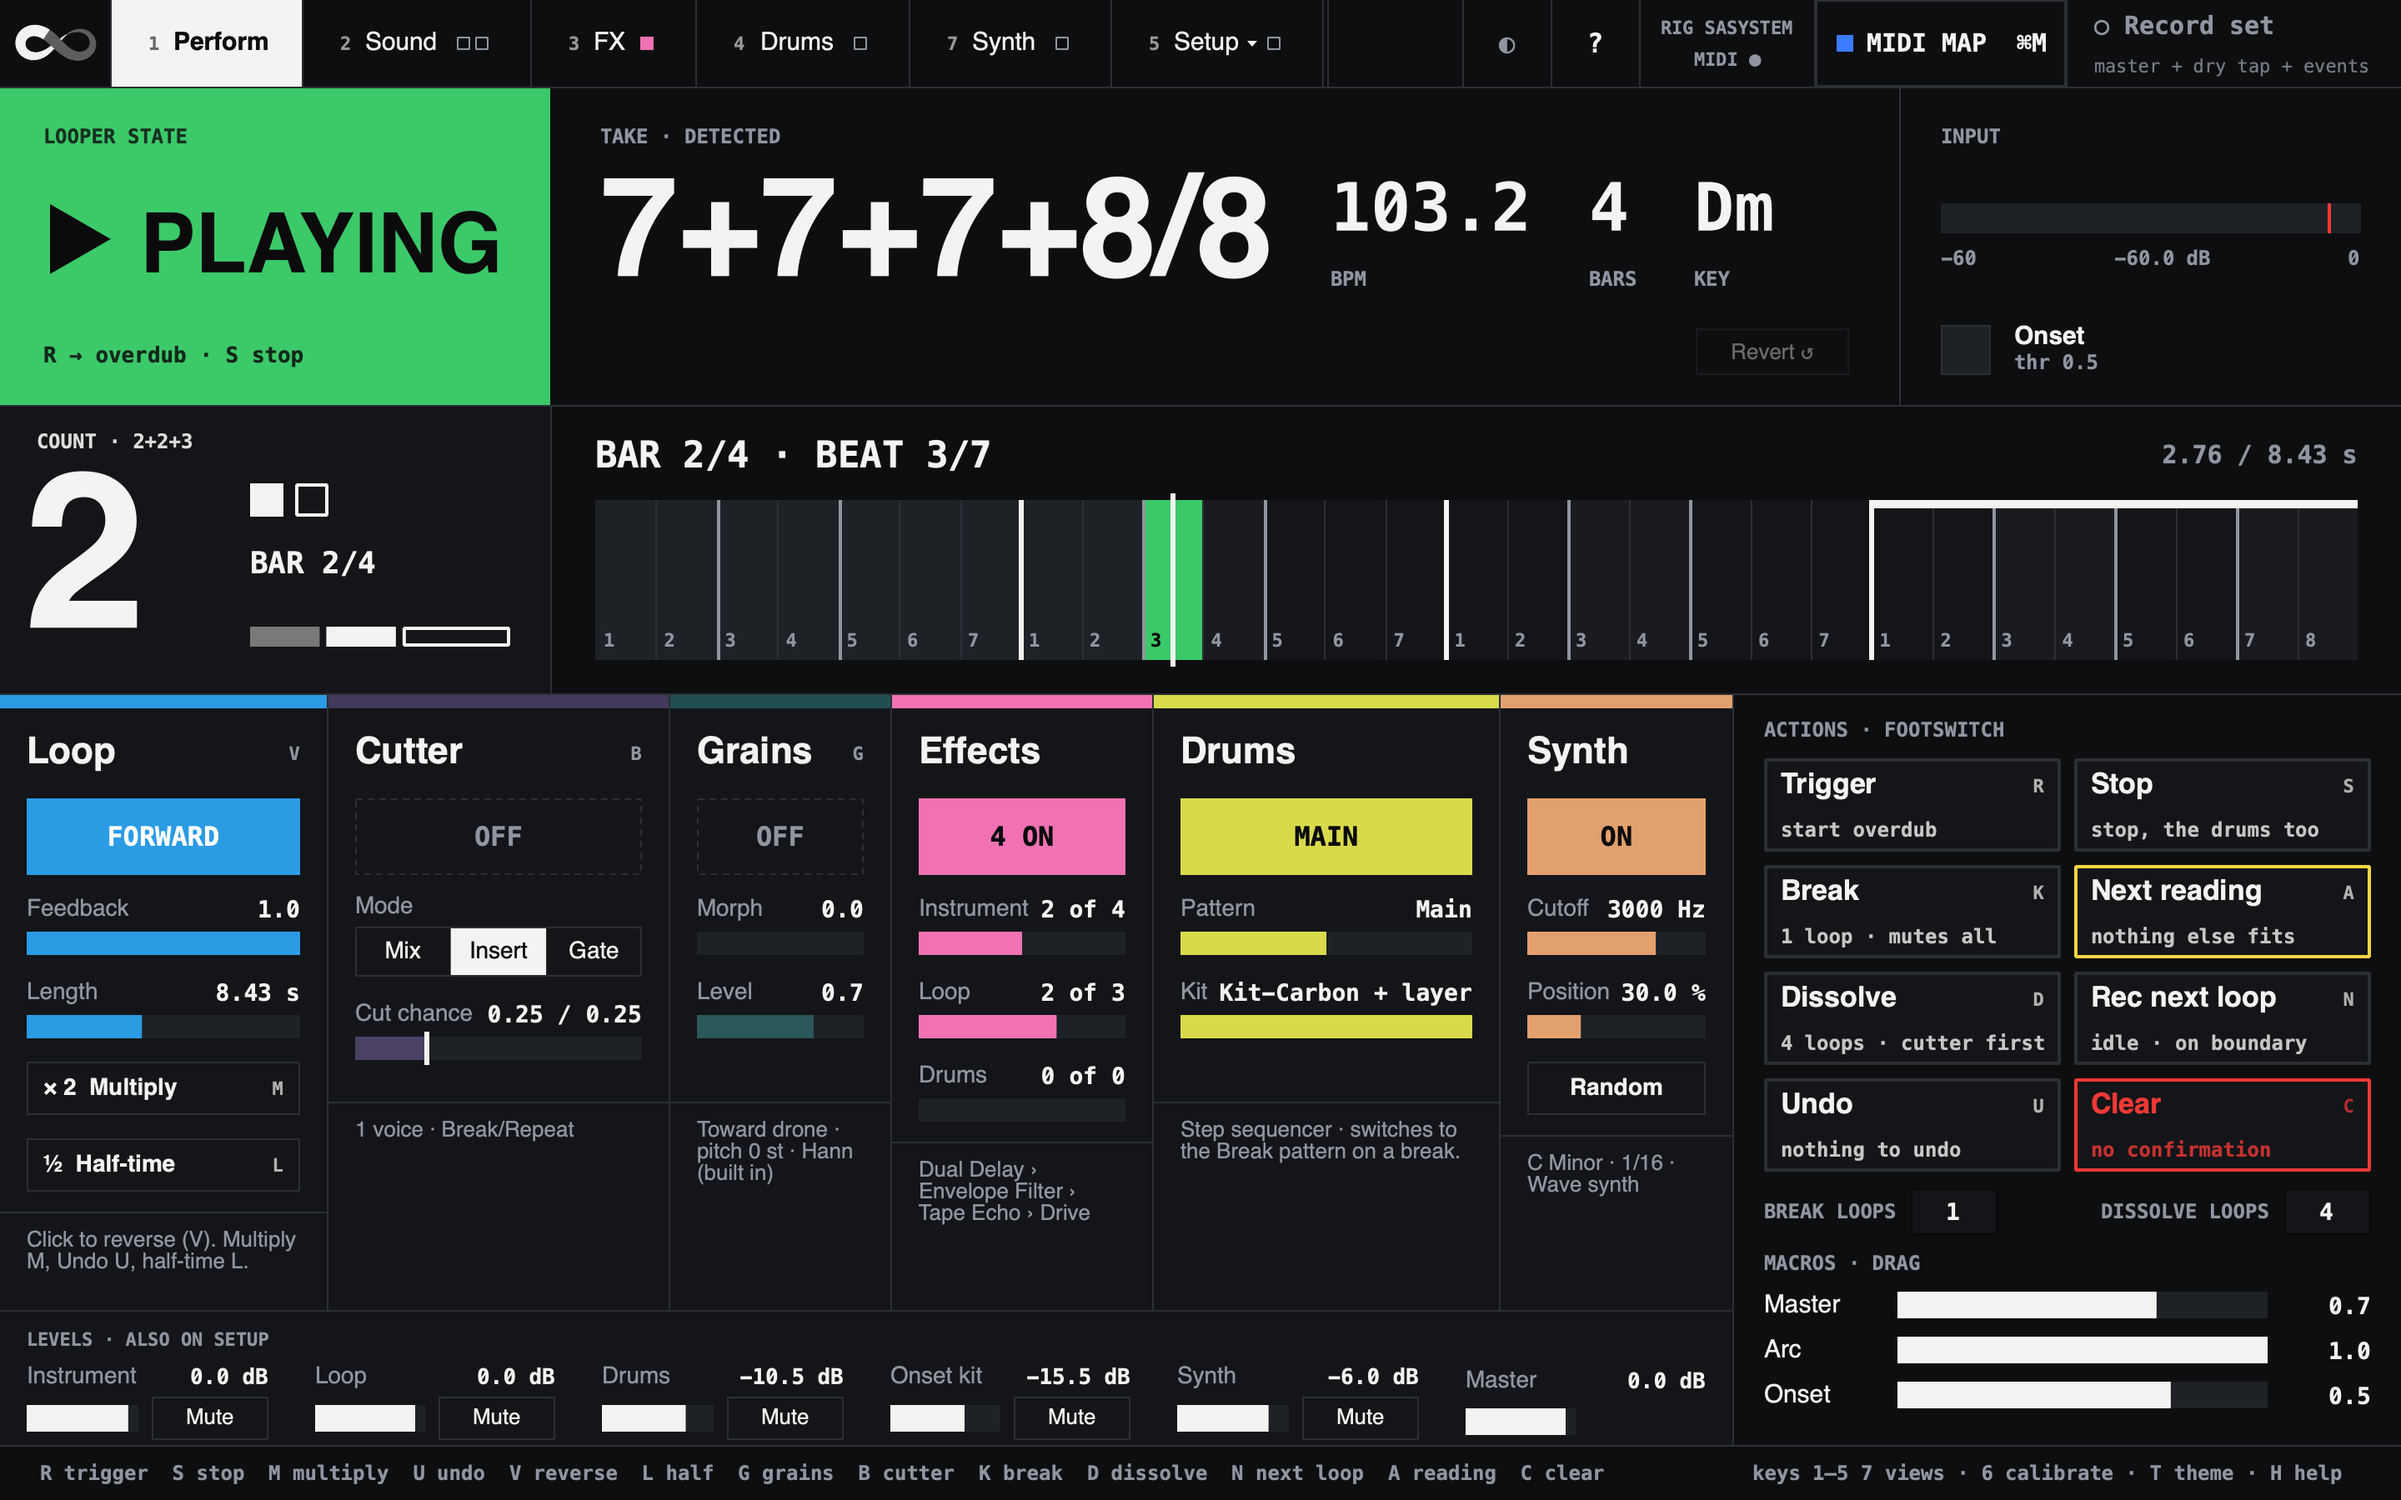
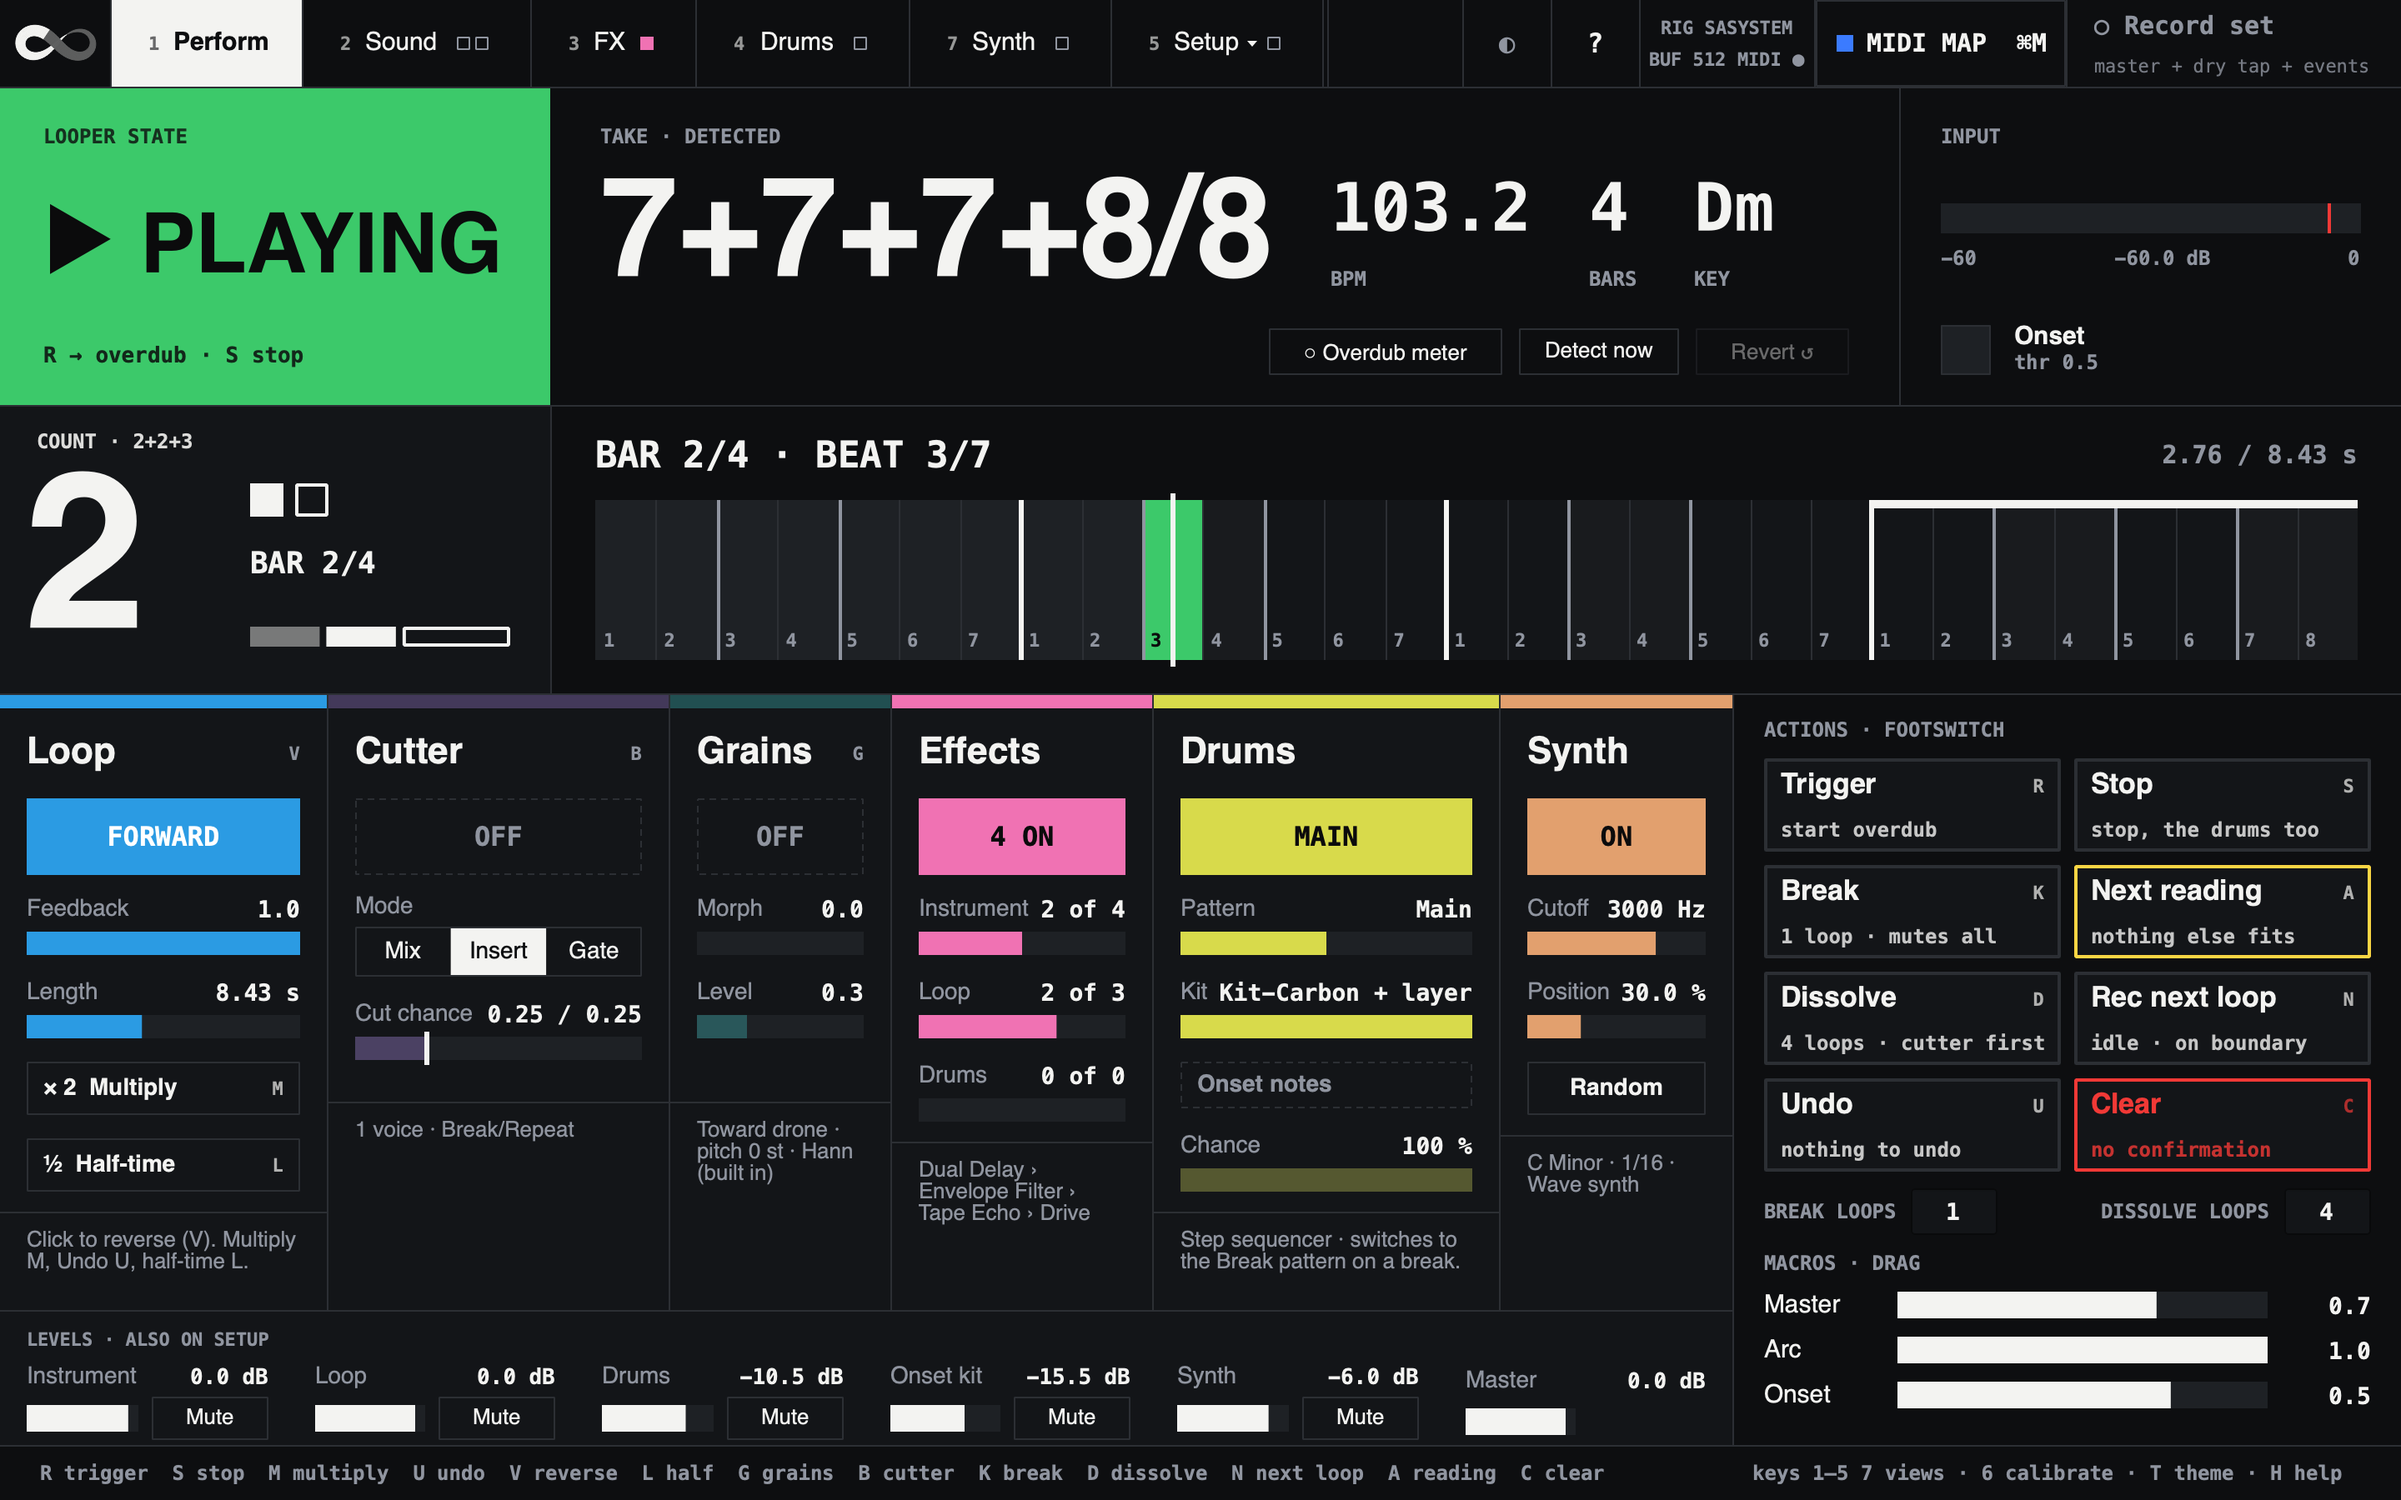
Perform: the overdub meter and the onset notes at hand
Asked for quick access on stage. The status band's take line has the
overdub meter's switch (○/● Overdub meter) and Detect now beside Revert,
since what they change is the reading it shows; Perform's Drums column
has the onset notes' switch and their Chance under Kit, since on SA they
play the onset kit. A rig without SA's drums gives the onset notes a
column of their own (in the drums' colour, its name opening Setup ›
Analysis, its line the hits a pass). Each writes the model and is
painted back, here and on Setup › Analysis, which keeps the rest; they
carry the controls' MIDI targets. The onset notes' tile is 28 pt, so the
Drums column needs no more height than Loop's and Perform stays 459 pt.

Detect now that finds nothing is refused out loud now (the footer:
"no beat in the last overdub: 5 onsets, 8 needed", "· Overdub meter is
off" when it is, as it hears overdubs only while on); Perform has no line
of its own to say so. The run at an overdub's end stays quiet.

test-reading: the refusals, and the unasked run's silence;
check-gui-maptags: the tags shown twice, each control writing the model
and both views painted back, the Drums column's height. The manual and
the Perform and status band screenshots show them.

diff --git a/docs/manual.md b/docs/manual.md
@@ -511,7 +511,7 @@ Sound, FX, Drums, Synth and Setup) plus Calibrate, and a footer.
   Break hatch while a break is open) with what R does next; the **take** —
   signature, BPM, bars, key, and the reading chip (`or 7/4 @ 206.4?` on a close
   call, `→ 7/4 @ 206.4 BPM · 2 bars · lands in 1 loop` while a reading is
-  armed) with **Revert**;
+  armed) with **Overdub meter**, **Detect now** and **Revert** beside it;
   the **input** — the level in dB and the **onset lamp**; under the state
   block the **count**, the beat group the loop is in, big, with the count-in
   before an event; and beside it the **bar grid**, a cell per beat with the
@@ -522,7 +522,7 @@ Sound, FX, Drums, Synth and Setup) plus Calibrate, and a footer.
 
 | View | Key | What lives there |
 |---|---|---|
-| **Perform** | 1 | A column per layer — **Loop** (forward/reverse, feedback, length, ×2), **Cutter** (on/off, Mix/Insert/Gate, the arc-driven parameter with its tick), **Grains** (on/off, morph, level), **Effects**, **Drums** and **Synth** (on/off, Cutoff, Position, Random) — then the **actions** (Trigger, Stop, Break, Next reading, Dissolve, Rec next loop, Undo, Clear, each with its key and footswitch), Break loops and Dissolve loops, and the **macros**: Master, Arc, Onset |
+| **Perform** | 1 | A column per layer — **Loop** (forward/reverse, feedback, length, ×2), **Cutter** (on/off, Mix/Insert/Gate, the arc-driven parameter with its tick), **Grains** (on/off, morph, level), **Effects**, **Drums** (on/off, and the onset notes' switch and Chance; on a rig without Megalooper SA's drums, a column of their own) and **Synth** (on/off, Cutoff, Position, Random) — then the **actions** (Trigger, Stop, Break, Next reading, Dissolve, Rec next loop, Undo, Clear, each with its key and footswitch), Break loops and Dissolve loops, and the **macros**: Master, Arc, Onset |
 | **Sound** | 2 | The **Cutter** (preset, voices, procedure, cut synth, ratio, parameters, level, pan, voice effects) beside the **Grains** (preset, Blend, Pitch, Grain, Read position, grain window) |
 | **FX** | 3 | The **effects** chains (click a block to edit it, its square to switch it) and their sounds |
 | **Drums** | 4 | The **drums** (step sequencer, timing, kits, mix) |
@@ -627,8 +627,9 @@ The controls, by view:
 
 The top of Perform (`scripts/gui-status.scd` builds and paints it) answers
 "what is it doing right now" at a glance, and its strip keeps the answer on
-every other view. It is **read-only** but for Revert — painted from model
-notifications, so nothing here can be clicked into a state you didn't intend.
+every other view. It is **read-only** but for the take line's three tiles —
+Overdub meter, Detect now and Revert — and painted from model notifications,
+so nothing here can be clicked into a state you didn't intend.
 
 ![The status band](images/status-band.png)
 
@@ -803,14 +804,19 @@ shares.
 
 For loops that open atmospheric. Take one has no attacks, so no meter is found
 and the drums never start — correct, there is no beat to follow. Turn on
-**Overdub meter detection** on Setup's Analysis page, overdub a rhythmic
+**Overdub meter** in the take line of Perform's status band (or **Overdub meter
+detection** on Setup's Analysis page: the same switch), overdub a rhythmic
 pattern, and the meter is derived from *that* instead, then the drums start.
 
 - **Runs on `endOverdub`**, and only while the loop still has **no valid meter**
   (a length-anchored fallback counts as none). Without that gate every overdub
   would re-tempo the drums mid-performance.
-- **Detect now** forces a re-analysis of the last overdub's onsets past that
-  gate. The quality guards below still apply.
+- It hears an overdub **only while the switch is on**: switch it on before
+  you play the rhythm.
+- **Detect now**, beside it, forces a re-analysis of the last overdub's onsets
+  past that gate. The quality guards below still apply; when they find no
+  beat, the footer says why (`Refused: no beat in the last overdub: 5 onsets,
+  8 needed`), and Setup's Analysis page shows what a detection found.
 - Onsets arrive already in **loop coordinates**: the engine publishes its read
   position on a control bus and the analyser latches it at each onset, so
   several loop passes fold onto one grid with no clock arithmetic — and playing
@@ -875,8 +881,11 @@ reading that has not landed.
 
 The onsets `MeterAnalyzer` fits its grid to are also, straightforwardly, a drum
 part — they are exactly where the attacks were. Turn on **Onset notes** on
-Setup's Analysis page and they play the **onset kit** (its kit is chosen on the
-Drums view), once per loop pass: a drum part from the rhythm you played.
+Perform, under the Drums, or on Setup's Analysis page, and they play the
+**onset kit** (its kit is chosen on the Drums view), once per loop pass: a drum
+part from the rhythm you played. Perform has their **Chance** too; the rest of
+their settings are on the Analysis page. On a rig without Megalooper SA's drums
+they are sent as MIDI notes, and Perform gives them a column of their own.
 
 ### It replays the loop, it does not track your hands
 
